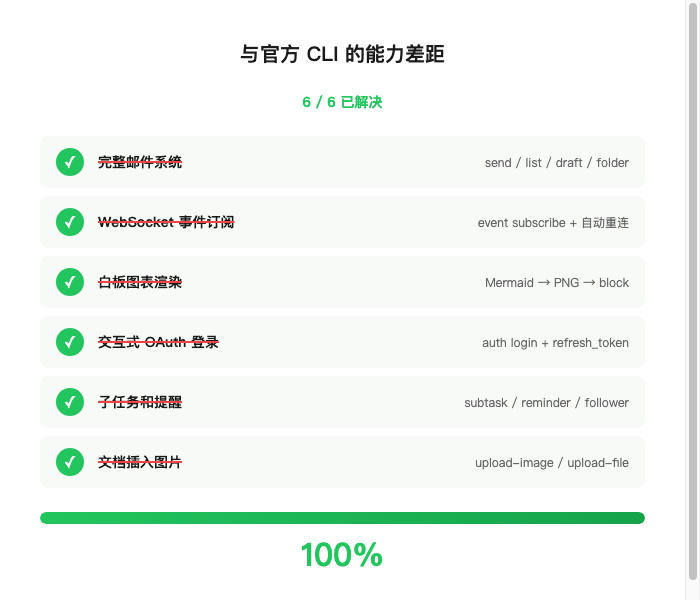
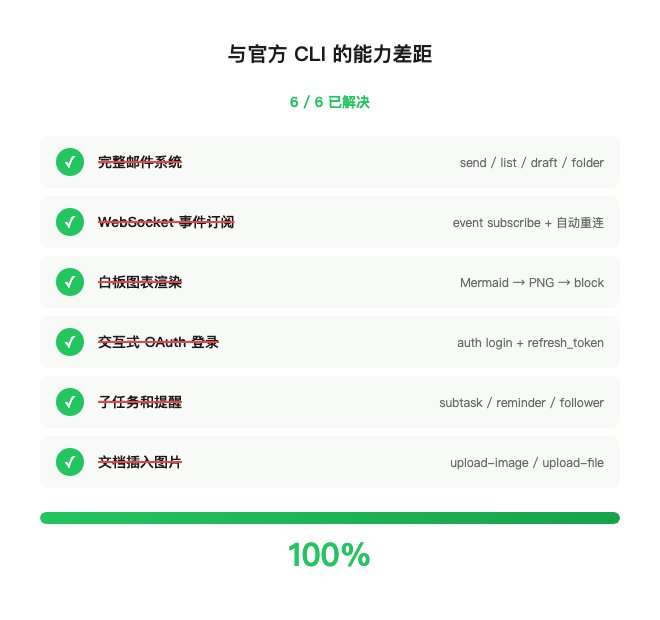
docs: fix gap-zero scrollbar, add exclusive-domains illustration
- Fixed gap-zero.html width to eliminate scrollbar in screenshot
- Added exclusive-domains illustration (5 enterprise domains we have, official doesn't)
- Inserted third image into wechat-article-v2.md
- Re-rendered wechat-article-v2.html with all 3 images

diff --git a/docs/images/exclusive-domains.html b/docs/images/exclusive-domains.html
@@ -1,0 +1,47 @@
+<!DOCTYPE html>
+<html><head><meta charset="utf-8"><style>
+body { margin: 0; padding: 40px; background: #fff; font-family: -apple-system, "PingFang SC", sans-serif; }
+.container { max-width: 580px; margin: 0 auto; }
+.title { text-align: center; font-size: 20px; font-weight: 800; margin-bottom: 8px; color: #1a1a1a; }
+.subtitle { text-align: center; font-size: 14px; color: #ef4444; font-weight: 600; margin-bottom: 24px; }
+.row { display: flex; align-items: center; padding: 14px 16px; margin-bottom: 8px; border-radius: 8px; background: #fef2f2; }
+.icon { font-size: 24px; margin-right: 14px; flex-shrink: 0; }
+.name { flex: 1; font-size: 15px; font-weight: 700; color: #1a1a1a; }
+.tag { font-size: 11px; padding: 3px 10px; border-radius: 99px; background: #fee2e2; color: #991b1b; white-space: nowrap; }
+.ours { display: flex; align-items: center; padding: 14px 16px; margin-bottom: 8px; border-radius: 8px; background: #f0fdf4; border: 2px solid #22c55e; }
+.ours .name { color: #166534; }
+.ours .tag { background: #bbf7d0; color: #166534; }
+.footer { text-align: center; margin-top: 20px; font-size: 13px; color: #999; }
+</style></head>
+<body>
+<div class="container">
+  <div class="title">5 个独占企业管理领域</div>
+  <div class="subtitle">官方 CLI 至今空白，我们已覆盖</div>
+  <div class="ours">
+    <div class="icon">✍</div>
+    <div class="name">审批流程</div>
+    <div class="tag">list / get / create</div>
+  </div>
+  <div class="ours">
+    <div class="icon">🎯</div>
+    <div class="name">OKR 目标管理</div>
+    <div class="tag">list / get / periods</div>
+  </div>
+  <div class="ours">
+    <div class="icon">⏰</div>
+    <div class="name">考勤记录</div>
+    <div class="tag">tasks / stats / shifts</div>
+  </div>
+  <div class="ours">
+    <div class="icon">📊</div>
+    <div class="name">汇报规则</div>
+    <div class="tag">rules / tasks</div>
+  </div>
+  <div class="ours">
+    <div class="icon">🛡</div>
+    <div class="name">管理后台</div>
+    <div class="tag">audit / dept-stats / user-stats</div>
+  </div>
+  <div class="footer">官方 CLI GitHub Issues 中仍在排队</div>
+</div>
+</body></html>

diff --git a/docs/wechat-article-v2.html b/docs/wechat-article-v2.html
@@ -139,6 +139,11 @@
 
 <section style="margin-bottom:20px;font-size:15px;line-height:1.75;color:#1f2937;">而官方 CLI 那边，5 个企业管理领域<strong style="color:#111827;">至今还是空白</strong>：审批流程、OKR、考勤记录、汇报规则、管理后台。这些在他们的 GitHub Issues 里排着队。</section>
 
+<section style="text-align:center;margin:24px 0;">
+<img src="images/exclusive-domains-html-20260329.png" alt="5 个独占企业管理领域" style="max-width:100%;border-radius:6px;border:1px solid #e5e7eb;" />
+<section style="color:#6b7280;font-size:12px;margin-top:6px;line-height:1.5;">5 个独占企业管理领域</section>
+</section>
+
 <h2 style="font-size:22px;font-weight:bold;color:#111827;border-left:4px solid #0891b2;padding-left:14px;margin:32px 0 16px 0;line-height:1.4;">146 个端点干什么</h2>
 
 <section style="margin-bottom:20px;font-size:15px;line-height:1.75;color:#1f2937;">不按技术分类，按你周一早上打开飞书的场景来说：</section>

diff --git a/docs/images/gap-zero.html b/docs/images/gap-zero.html
@@ -1,7 +1,7 @@
 <!DOCTYPE html>
 <html><head><meta charset="utf-8"><style>
 body { margin: 0; padding: 40px; background: #fff; font-family: -apple-system, "PingFang SC", sans-serif; }
-.container { max-width: 620px; margin: 0 auto; }
+.container { max-width: 580px; margin: 0 auto; }
 .title { text-align: center; font-size: 20px; font-weight: 800; margin-bottom: 24px; color: #1a1a1a; }
 .subtitle { text-align: center; font-size: 14px; color: #22c55e; font-weight: 600; margin-bottom: 24px; }
 .row { display: flex; align-items: center; padding: 12px 16px; margin-bottom: 8px; border-radius: 8px; background: #f8faf8; }

diff --git a/docs/wechat-article-v2.md b/docs/wechat-article-v2.md
@@ -67,6 +67,8 @@ Skill 和 MCP Server 最大的区别——Skill 是对话里提到"飞书"才激
 
 而官方 CLI 那边，5 个企业管理领域**至今还是空白**：审批流程、OKR、考勤记录、汇报规则、管理后台。这些在他们的 GitHub Issues 里排着队。
 
+![5 个独占企业管理领域](images/exclusive-domains-html-20260329.png)
+
 ## 146 个端点干什么
 
 不按技术分类，按你周一早上打开飞书的场景来说：
